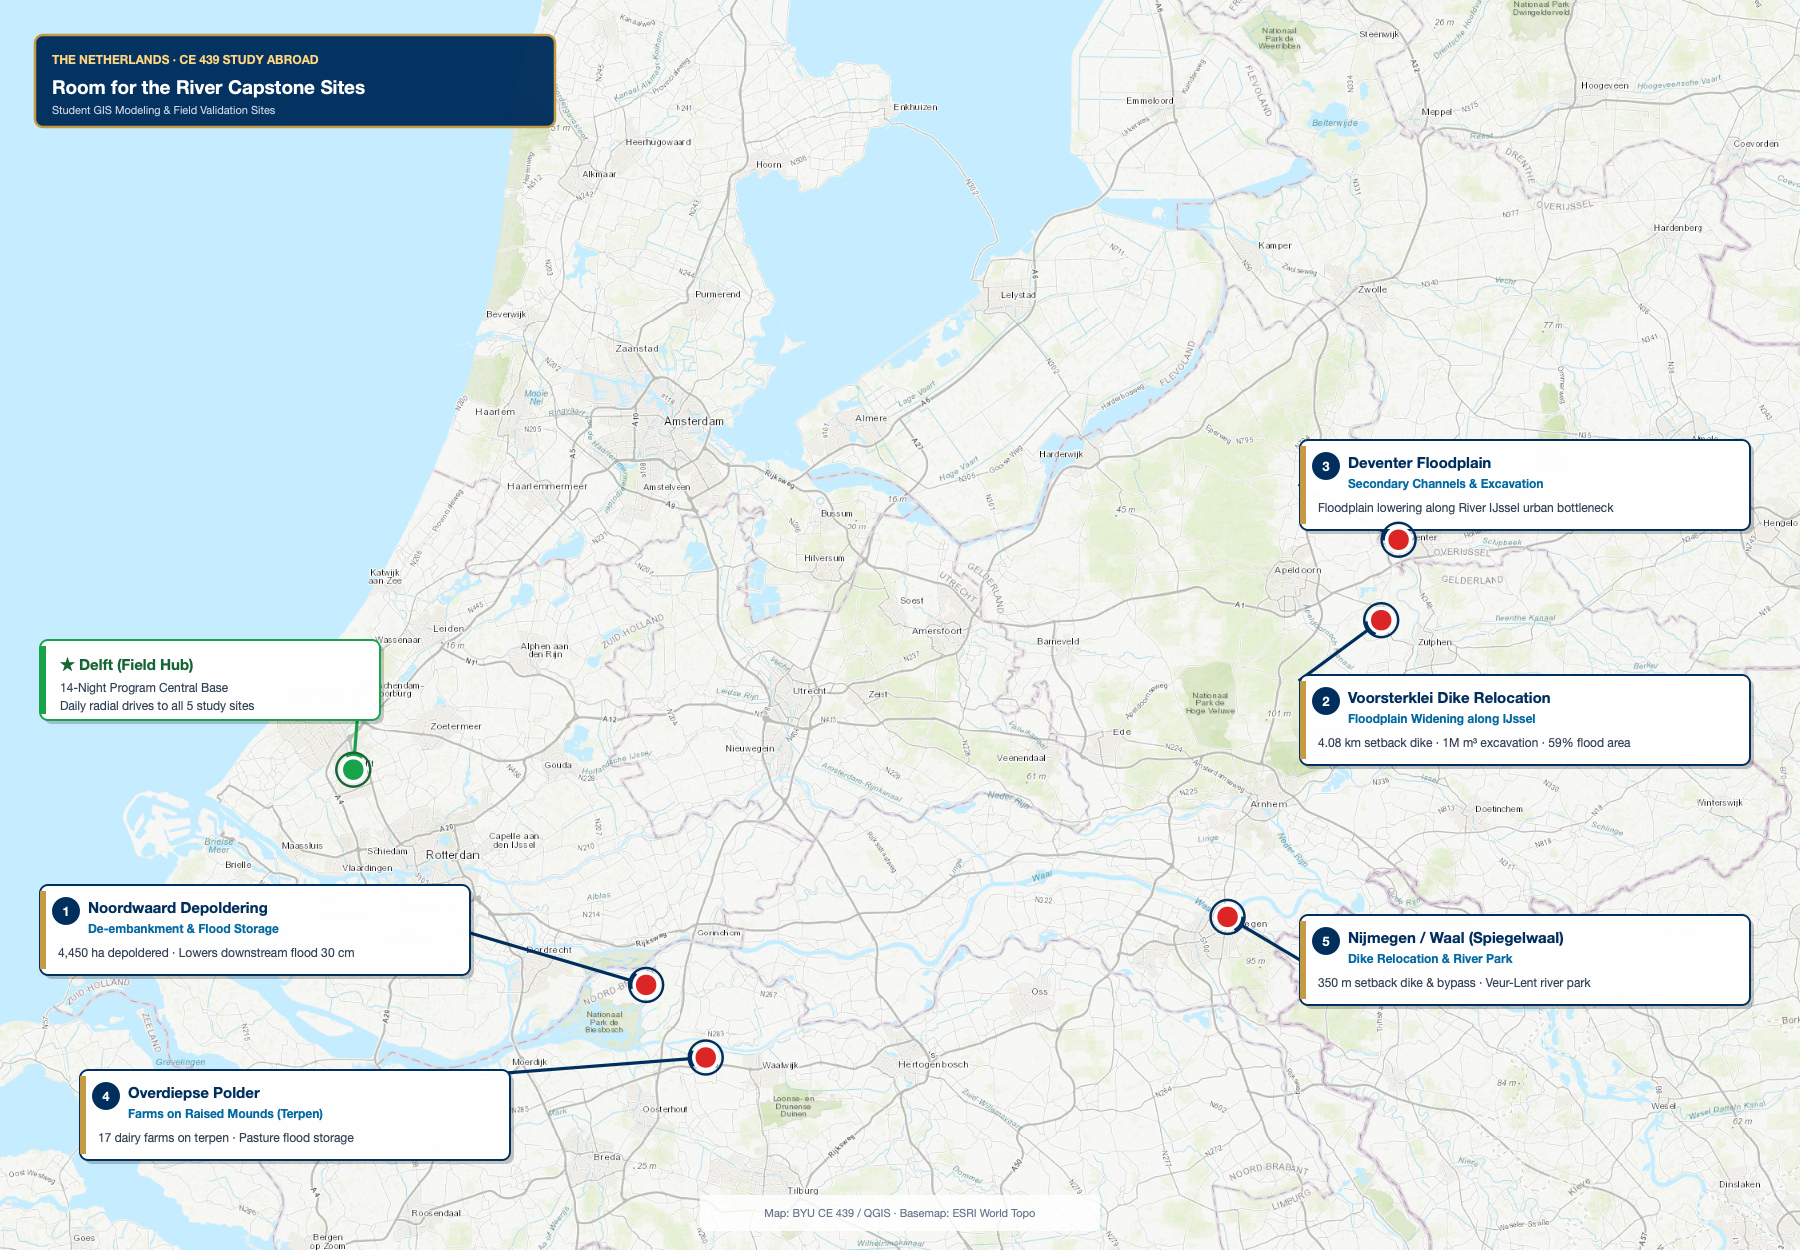
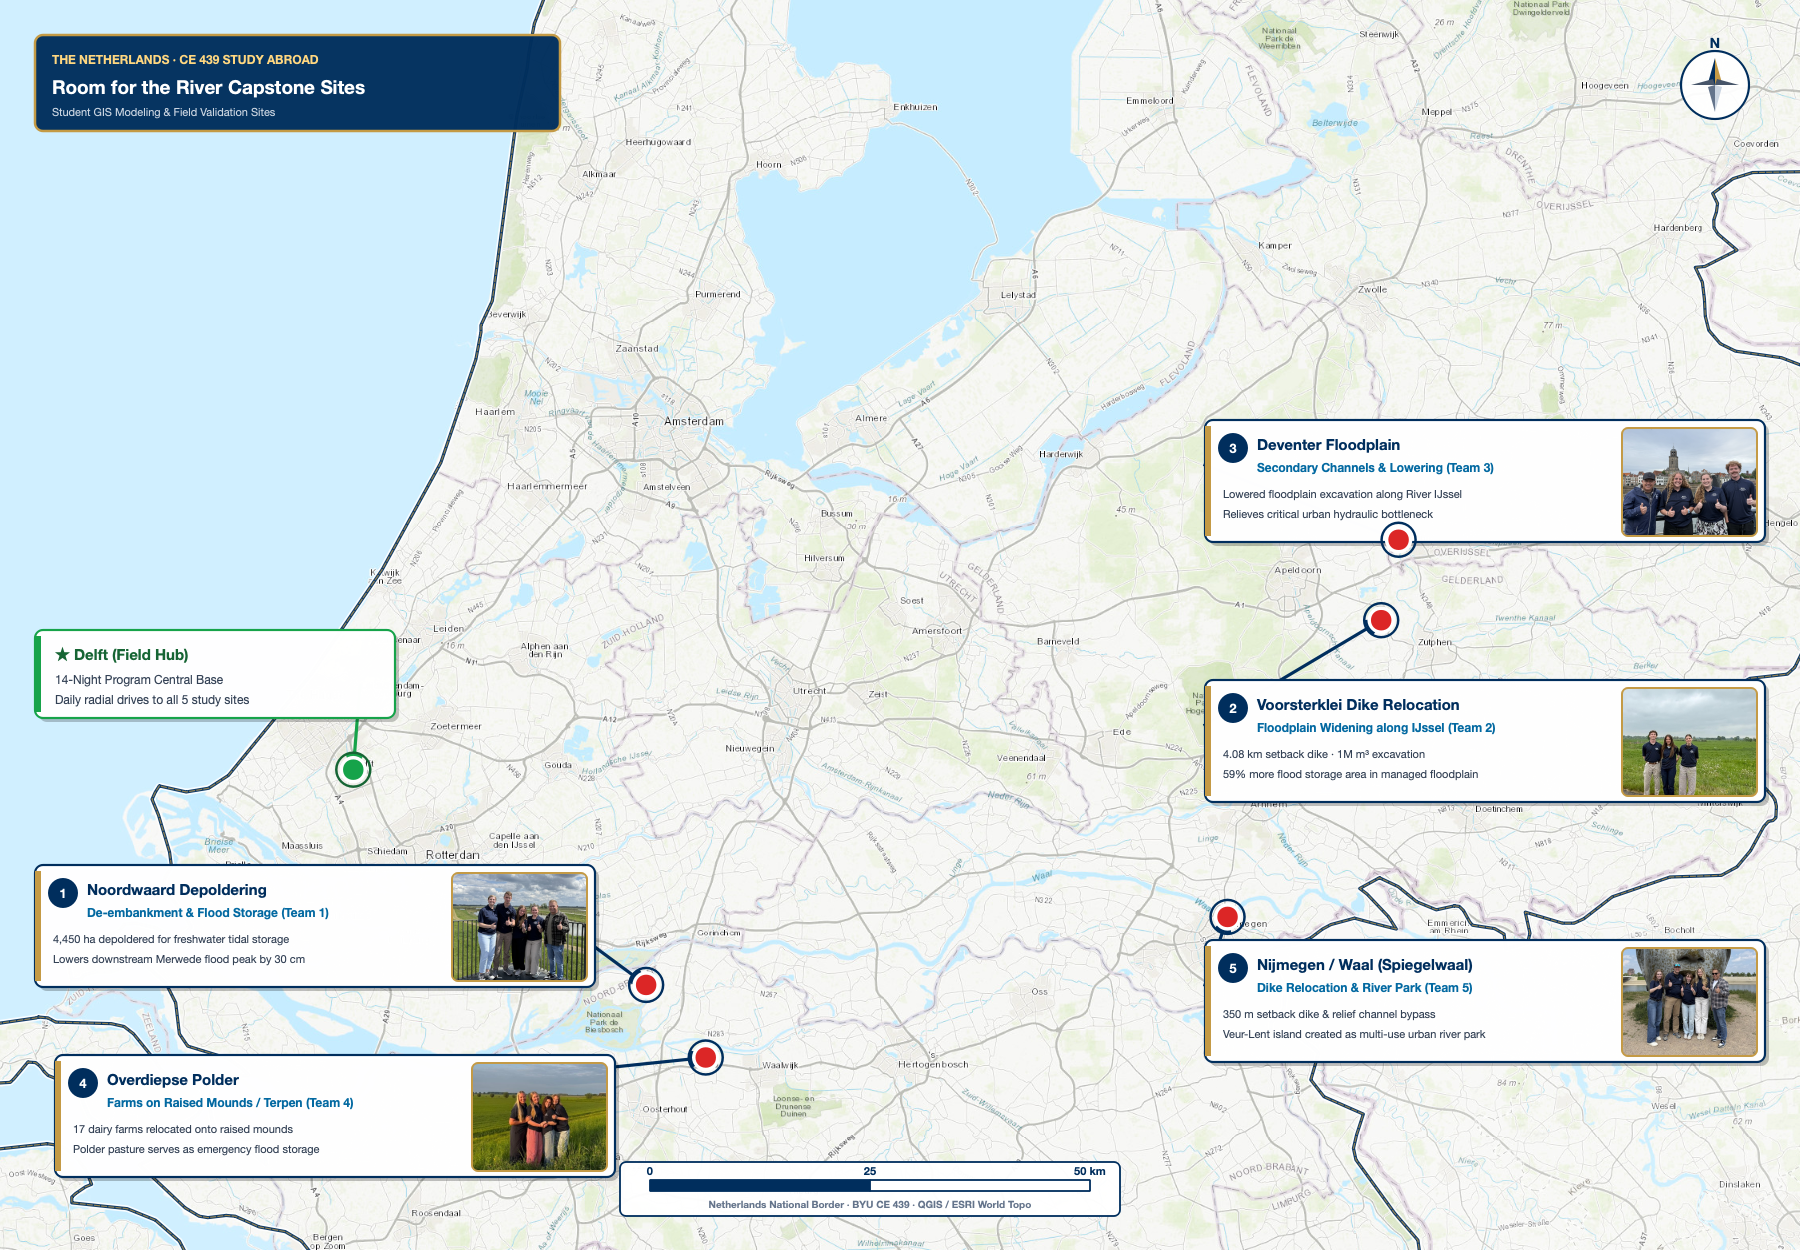
Update Room for the River map with Netherlands boundary, North Arrow, scale bar, and student photo insets

diff --git a/presentations/study-abroad/index.html b/presentations/study-abroad/index.html
@@ -382,7 +382,7 @@ section.lead figcaption { color: #d7e5f0; }
 <p><strong>4. Overdiepse Polder</strong><br /><span>Farm relocation onto raised mounds</span></p>
 <p><strong>5. Nijmegen / Waal</strong><br /><span>Relief channel, flood exposure, and urban impacts</span></p>
 <p class="small" style="border-bottom:none;padding-bottom:0;margin-top:14px;color:#213447;"><strong>Deliverables:</strong> before/after GIS terrain analysis, bathtub flood models, and community impact audits.</p>
-</div></div><div><figure><img src="images/room-for-the-river-map.png?v=1" alt="QGIS map of the five Room for the River project locations across the Netherlands" style="height:480px;width:100%;object-fit:contain;border:1px solid #c9d5df;border-radius:4px;" /><figcaption style="font-size:16px;margin-top:6px;color:#526779;">QGIS map showing the 5 capstone project sites and Delft field hub</figcaption></figure></div></div>
+</div></div><div><figure><img src="images/room-for-the-river-map.png?v=2" alt="QGIS map of the five Room for the River project locations across the Netherlands" style="height:480px;width:100%;object-fit:contain;border:1px solid #c9d5df;border-radius:4px;" /><figcaption style="font-size:16px;margin-top:6px;color:#526779;">QGIS map showing the 5 capstone project sites and Delft field hub</figcaption></figure></div></div>
 </section>
 </foreignObject></svg><svg data-marpit-svg="" viewBox="0 0 1280 720"><foreignObject width="1280" height="720"><section id="6" data-paginate="true" data-style="section { background: #fff; color: #213447; font-family: -apple-system, BlinkMacSystemFont, &quot;Segoe UI&quot;, sans-serif; font-size: 27px; line-height: 1.35; padding: 44px 52px 48px !important; justify-content: flex-start; }
 h1 { color: #002e5d; font-size: 42px; line-height: 1.12; margin: 0 0 25px; letter-spacing: -0.8px; }
